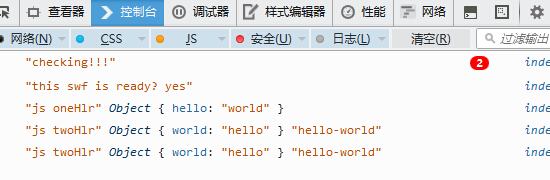
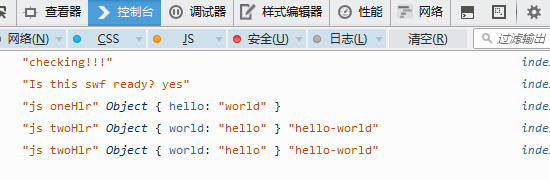
update

diff --git a/bin/index.html b/bin/index.html
@@ -36,7 +36,7 @@
 			if (!swf || !swf.notify) return;
 			
 			var isReady = swf.notify("swfIsReady");
-			console.log("this swf is ready? " + (isReady?"yes":"false"));
+			console.log("Is this swf ready? " + (isReady?"yes":"false"));
 			if (isReady) {
 				if(interval>0)clearInterval(interval);
 				//此时SWF已经READY，可以交互了

diff --git a/README.md b/README.md
@@ -1,5 +1,5 @@
 # js-communicate
-AS-JS的交互通讯模块，提供了JS中模拟AS3事件监听处理方式用于取代AS直接调页面接口。  
+AS-JS的交互通讯模块，提供了JS中模拟AS3事件监听处理方式用于取代AS直接调页面接口的方式。  
 使用该库将为SWF提供三个接口给JS来调用：  
 1、notify，用于JS调AS中的接口  
 2、addEventListener，用于模拟事件监听  
@@ -49,7 +49,7 @@ function checkSwfReady(){
 	if (!swf || !swf.notify) return;
 	
 	var isReady = swf.notify("swfIsReady");
-	console.log("this swf is ready? " + (isReady?"yes":"false"));
+	console.log("Is this swf ready? " + (isReady?"yes":"false"));
 	if (isReady) {
 		if(interval>0)clearInterval(interval);
 		//此时SWF已经READY，可以交互了
